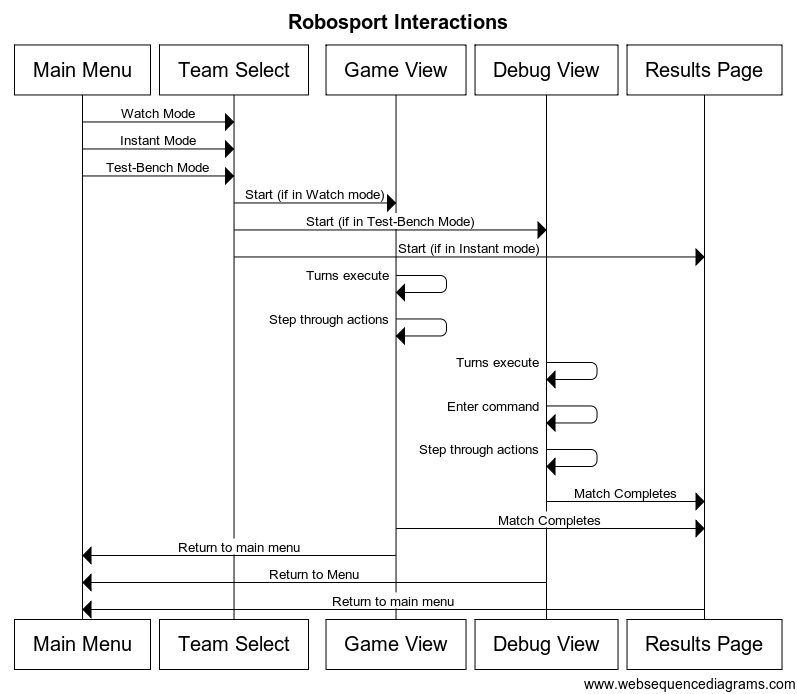
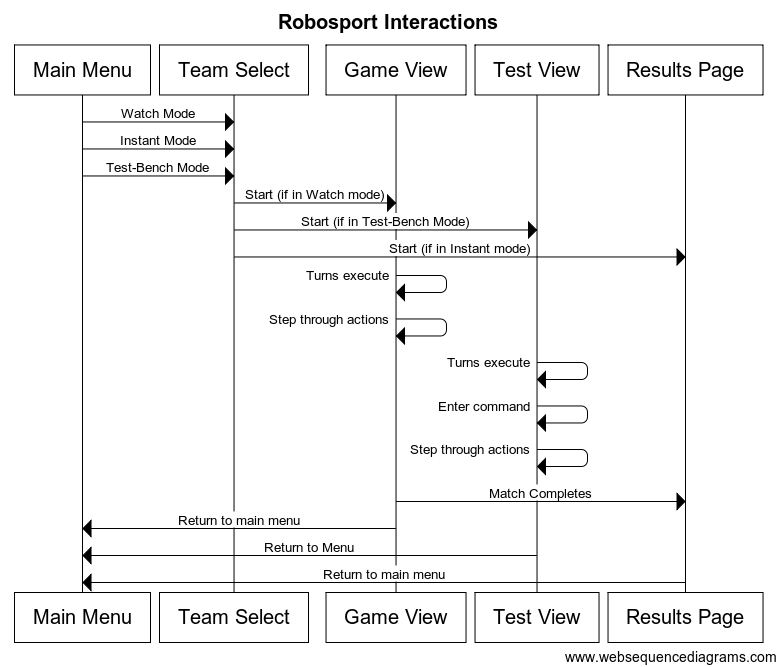
Updated scenarios for consistency, changed "debug" to "test-bench"

Changed region(s): [[0.0, 0.0, 0.9871, 1.0]]

diff --git a/doc/reqts/requirements.md b/doc/reqts/requirements.md
@@ -68,22 +68,20 @@ Each robot match will terminate after a set amount of turns, this is to prevent 
 ![Use Case](images/use_case.png)\  
 
 ## Scenarios
-- When the user selects tournament mode from the main screen, an interface to select and configure robot teams will appear.
-- When the user confirms their robot team in tournament mode they will be presented with an option to choose interactive 
-  or instant mode.
-    - When the user chooses interactive mode a screen will appear showing the robot match interface.
-    - When the user chooses instant mode a screen will appear presenting the results.
+- When the user selects watch mode from the main screen, an interface to select and configure robot teams will appear.
+- When the user confirms their robot team in watch mode, the game window will open up and simulation will begin
+	- The user can press the step button to advance a single step, or let the match play
+	- When the match ends, a screen showing the match results is shown.
 
-- When the user selects versus mode from the main screen, an interface to select and configure individual robots will appear.
-- When the user confirms their robot team in versus mode they will be presented with an option to choose interactive 
-  or instant mode.
-    - When the user chooses interactive mode a screen will appear showing the robot match interface.
-    - When the user chooses instant mode a screen will appear presenting the results.
+- When the user selects instant results mode from the main screen, an interface to select and configure individual robots will appear.
+- When the user confirms their robot team in instant results mode, the match will be invisibly simulated and a screen showing the match results is shown.
 
 - When the user selects test-bench mode from the main screen, an interface to select and configure individual robots will appear.
-- When the user confirms their robot team in test-bench mode a screen displaying the robot match debugger interface will appear.
-
-Robots must be able to participate and run in tournaments and perform according to [rules and limitations](#robot-limitations).
+- When the user confirms their robot team in test-bench mode, the test-bench interface will open
+	- The user can press the step button to advance a single step, or let the match play
+	- The user can enter commands to alter the state of the test
+	
+Robots must be able to participate in matches and perform according to [rules and limitations](#robot-limitations).
 
 ## Interfaces
 ### Main Interface
@@ -102,8 +100,8 @@ Team selection window:
 Game screen:  
 ![Game](images/Game.jpg)\  
 
-Debug screen:  
-![Debug](images/Debug.jpg)\  
+Test-Bench screen:  
+![Test-Bench](images/Debug.jpg)\  
 
 Results screen:  
 ![Results](images/Results.jpg)\  
